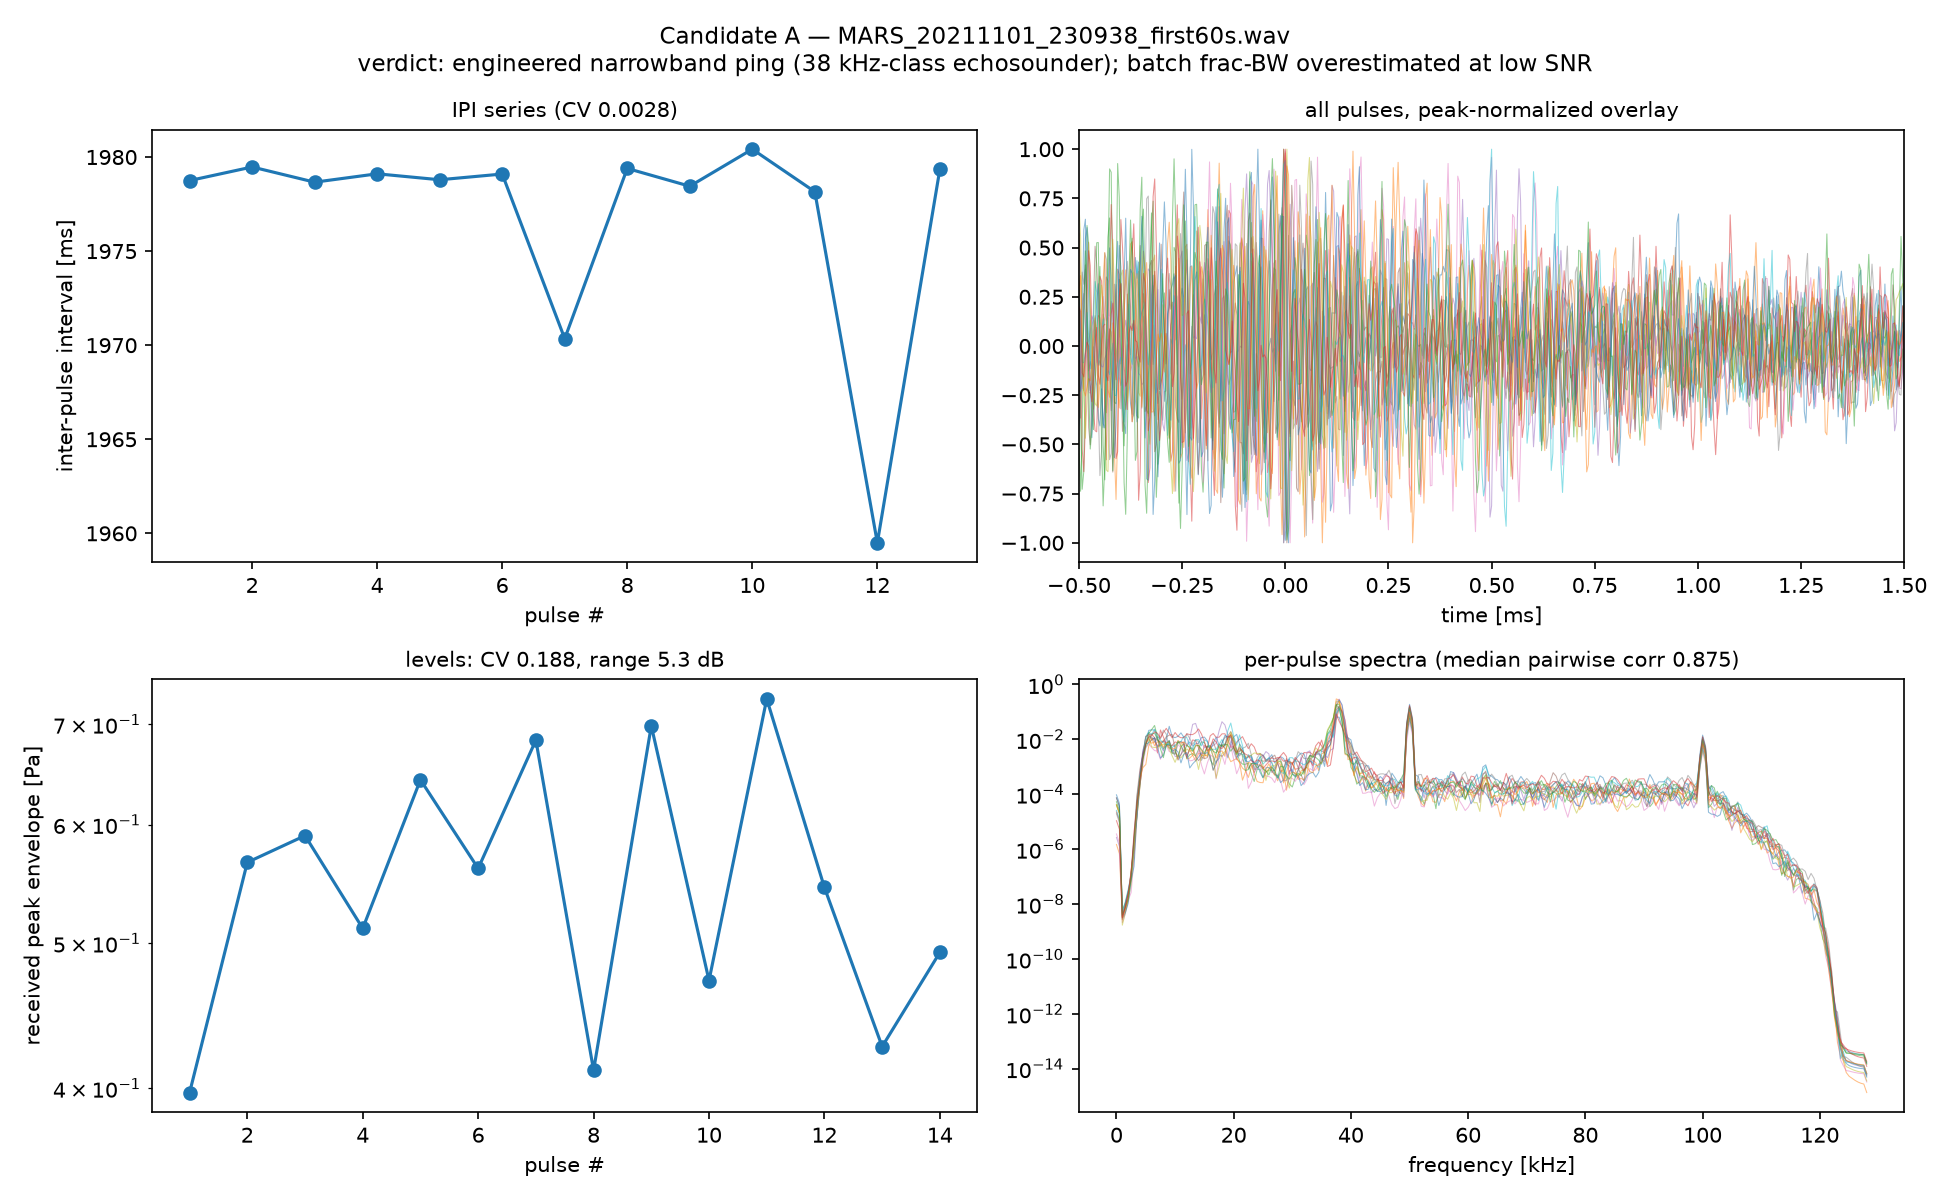
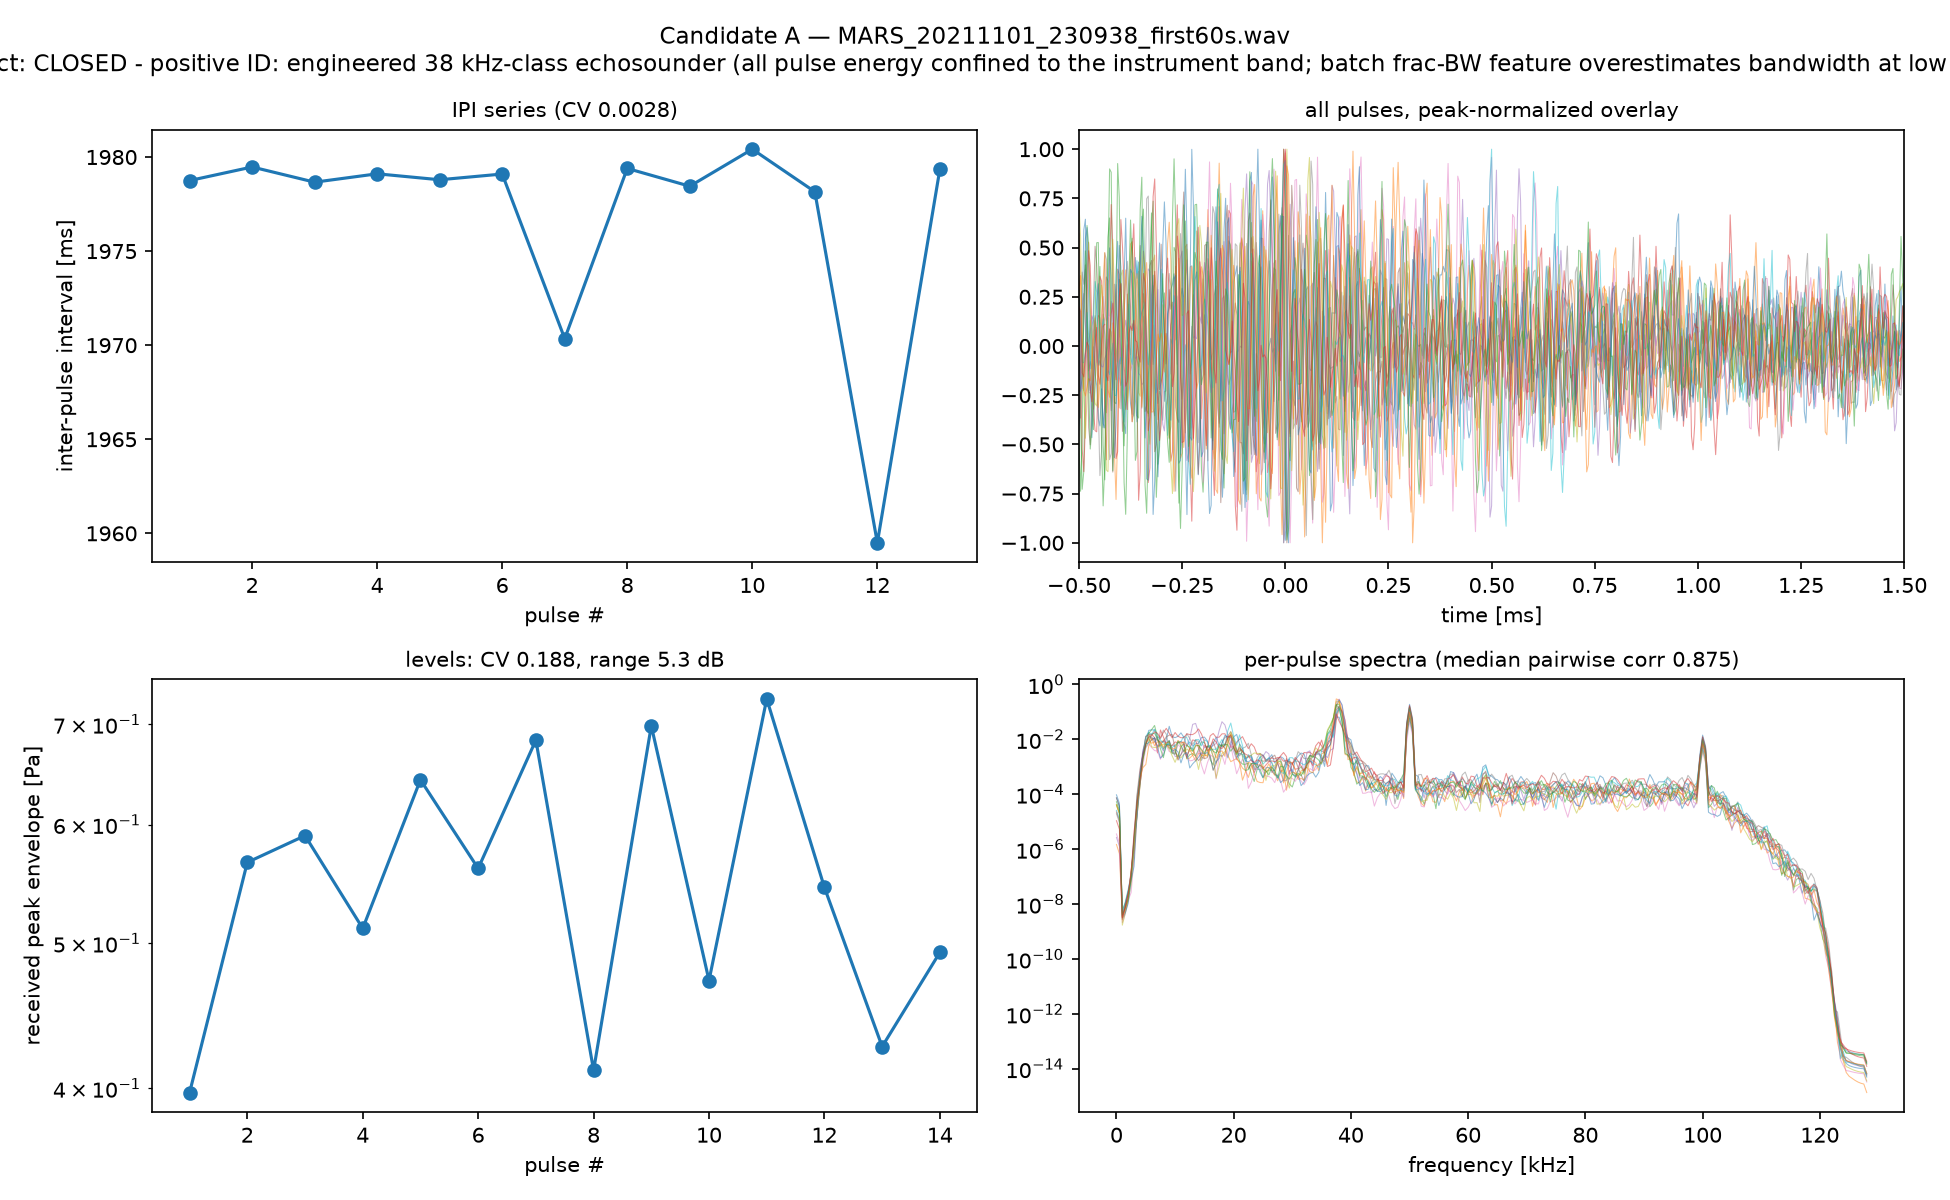
Replace binary dismissals with graded candidate adjudication
Screening for unknown sources must not close candidates on the mere
availability of a mundane explanation. Changes:

- verify_candidates.py: verdicts are now graded. CLOSED requires
  positive identification of a known source class; otherwise candidates
  stay OPEN at grade 1 (machine-like, highest interest), grade 2
  (unresolved) or grade 3 (biologic-favored, watchlisted)
- new motion-consistency metric (pulse-to-pulse level-reversal
  fraction): distinguishes a scanning biosonar beam (~0.67, erratic)
  from a smoothly transiting transmitter (<0.3); intermediate values
  are treated as evidence of nothing
- candidate B (2021-12-28) re-adjudicated: OPEN grade 2, unresolved --
  level variability only rules out FIXED transmitters, and its reversal
  fraction (0.50) is ambiguous between regular biosonar and a
  maneuvering/variable-power source; single-sensor data cannot resolve
- candidate A remains CLOSED on positive ID (all pulse energy confined
  to the 38 kHz instrument band)
- injection_test.py added: measures the screen's false-negative rate by
  injecting physically modeled discharge trains (shock + bubble echoes,
  metronomic) into real slices at controlled multiples of the detection
  threshold (results land in a follow-up commit)

Claude-Session: https://claude.ai/code/session_01WFhEo1c6TtW4FNHecjtDJF

Changed region(s): [[0.0, 0.0308, 1.0, 0.0617]]

diff --git a/src/injection_test.py b/src/injection_test.py
@@ -1,0 +1,199 @@
+#!/usr/bin/env python3
+"""Measure the false-negative rate of the discharge-template screen by
+signal injection.
+
+"We found no discharge trains" is only meaningful with a measured
+detection threshold: this script synthesizes physically modeled
+discharge pulse trains (fast broadband shock + bubble-oscillation echoes
+at 0.8/1.6 ms, machine-regular timing with 0.3% jitter), injects them
+into REAL 60 s MARS slices spanning quiet ambient, biologic click
+storms, and echosounder activity, then runs the exact batch-screen
+pipeline and asks: was a DISCHARGE-LIKE train recovered at the injected
+repetition rate?
+
+Injection amplitudes are expressed as multiples (alpha) of each slice's
+own detection threshold (median + 10*MAD of the band envelope), so
+results transfer across noise conditions. A zero-amplitude control run
+per slice measures the false-positive side.
+
+Outputs results/injection_test.json and figures/fig_injection.png
+(recovery matrix + received-level threshold -> detection-range curve).
+
+Usage:
+    python3 src/injection_test.py [--slices data/slices] [--workers 3]
+"""
+
+import argparse
+import glob
+import json
+import os
+from concurrent.futures import ProcessPoolExecutor
+
+import numpy as np
+from scipy import signal
+import matplotlib
+matplotlib.use("Agg")
+import matplotlib.pyplot as plt
+
+from plasma_transient_search import (detect, event_features, classify_train,
+                                     load_pressure_pa, TRAIN_GAP_S,
+                                     TRAIN_MIN_N, DET_BAND)
+
+ALPHAS = [0.0, 0.7, 1.0, 1.5, 2.0, 3.0, 5.0]
+RATES_HZ = [0.5, 2.0, 8.0]
+IPI_JITTER = 0.003
+FEATURE_CAP = 1000
+RNG_SEED = 20260821
+
+
+def make_pulse(fs, rng):
+    """Discharge pulse model: 0.1 ms shock burst + bubble echoes."""
+    n = int(0.004 * fs)
+    t = np.arange(n) / fs
+    burst = rng.standard_normal(n) * np.exp(-((t - 0.0002) / 8e-5) ** 2)
+    for lag, amp in ((0.0008, 0.4), (0.0016, 0.15)):
+        k = int(lag * fs)
+        burst[k:] += amp * rng.standard_normal(n - k) * \
+            np.exp(-((t[:n - k] - 0.0002) / 8e-5) ** 2)
+    sos = signal.butter(4, (DET_BAND[0], 110000), btype="bandpass",
+                        fs=fs, output="sos")
+    p = signal.sosfiltfilt(sos, burst)
+    return p / np.abs(signal.hilbert(p)).max()
+
+
+def screen(p, fs):
+    """The batch-screen pipeline: detect -> features -> trains."""
+    x, env, peaks, _ = detect(p, fs)
+    feat_idx = set(np.linspace(0, len(peaks) - 1,
+                               min(len(peaks), FEATURE_CAP)).astype(int)
+                   ) if len(peaks) else set()
+    evs = [event_features(x, env, fs, i) if j in feat_idx
+           else {"t_s": round(i / fs, 4)}
+           for j, i in enumerate(peaks)]
+    trains, cur = [], []
+    for e in evs:
+        if cur and e["t_s"] - cur[-1]["t_s"] > TRAIN_GAP_S:
+            trains.append(cur)
+            cur = []
+        cur.append(e)
+    if cur:
+        trains.append(cur)
+    return [classify_train(t) for t in trains if len(t) >= TRAIN_MIN_N]
+
+
+def run_slice(path):
+    rng = np.random.default_rng(RNG_SEED)
+    name = os.path.basename(path).split("_first")[0]
+    p, fs = load_pressure_pa(path)
+    sos = signal.butter(6, DET_BAND, btype="bandpass", fs=fs, output="sos")
+    env0 = np.abs(signal.hilbert(signal.sosfiltfilt(sos, p)))
+    thr = float(np.median(env0) + 10 * np.median(
+        np.abs(env0 - np.median(env0))))
+    pulse = make_pulse(fs, rng)
+    rows = []
+    for rate in RATES_HZ:
+        for alpha in ALPHAS:
+            if alpha == 0.0 and rate != RATES_HZ[0]:
+                continue                       # one control per slice
+            pi = p.copy()
+            if alpha > 0:
+                t = 0.5
+                while t < len(p) / fs - 0.1:
+                    i = int(t * fs)
+                    amp = alpha * thr * (1 + 0.02 * rng.standard_normal())
+                    seg = pulse[:min(len(pulse), len(pi) - i)]
+                    pi[i:i + len(seg)] += amp * seg
+                    t += (1 + IPI_JITTER * rng.standard_normal()) / rate
+            trains = screen(pi, fs)
+            hit = any(t["class"].startswith("DISCHARGE")
+                      and abs(t["rate_hz"] - rate) / rate < 0.15
+                      for t in trains) if alpha > 0 else None
+            fp = sum(1 for t in trains if t["class"].startswith("DISCHARGE")
+                     ) if alpha == 0.0 else None
+            rows.append({"slice": name, "rate_hz": rate, "alpha": alpha,
+                         "thr_pa": round(thr, 4), "recovered": hit,
+                         "false_pos": fp})
+            print(f"  {name} rate={rate} alpha={alpha}: "
+                  f"{'FP=' + str(fp) if alpha == 0 else 'hit' if hit else 'miss'}",
+                  flush=True)
+    return rows
+
+
+def detection_range_km(rl_pa, sl_db):
+    """Range at which received level falls to rl_pa, for source level
+    sl_db (dB re 1 uPa @ 1 m), spherical spreading + 10 dB/km absorption
+    (~40 kHz)."""
+    rl_db = 20 * np.log10(rl_pa * 1e6)
+    r = np.logspace(0, 5.7, 4000)                    # 1 m .. 500 km
+    tl = 20 * np.log10(r) + 10.0 * (r / 1000.0)
+    ok = np.nonzero(sl_db - tl >= rl_db)[0]
+    return float(r[ok[-1]] / 1000.0) if len(ok) else 0.0
+
+
+def main():
+    ap = argparse.ArgumentParser()
+    ap.add_argument("--slices", default=os.environ.get(
+        "PACIFIC_SOUND_DIR", "data/slices"))
+    ap.add_argument("--workers", type=int, default=3)
+    args = ap.parse_args()
+    paths = sorted(glob.glob(os.path.join(args.slices, "*.wav")))
+    rows = []
+    with ProcessPoolExecutor(max_workers=args.workers) as ex:
+        for rr in ex.map(run_slice, paths):
+            rows += rr
+    with open("results/injection_test.json", "w") as fh:
+        json.dump(rows, fh, indent=1)
+
+    inj = [r for r in rows if r["alpha"] > 0]
+    ctl = [r for r in rows if r["alpha"] == 0.0]
+    n_fp = sum(r["false_pos"] for r in ctl)
+    # recovery matrix alpha x rate
+    mat = np.zeros((len(ALPHAS) - 1, len(RATES_HZ)))
+    for ia, a in enumerate(ALPHAS[1:]):
+        for ir, rt in enumerate(RATES_HZ):
+            sel = [r for r in inj if r["alpha"] == a and r["rate_hz"] == rt]
+            mat[ia, ir] = np.mean([r["recovered"] for r in sel])
+    thr_med = float(np.median([r["thr_pa"] for r in ctl]))
+    # threshold: lowest alpha with >=90% overall recovery
+    overall = mat.mean(axis=1)
+    a90 = next((a for a, v in zip(ALPHAS[1:], overall) if v >= 0.9), None)
+    print(f"\ncontrols: {n_fp} false positives in {len(ctl)} clean runs")
+    print(f"median detection threshold: {thr_med:.3f} Pa; "
+          f"90% recovery at alpha={a90}")
+
+    fig, (ax1, ax2) = plt.subplots(1, 2, figsize=(13, 5))
+    im = ax1.imshow(mat, cmap="RdYlGn", vmin=0, vmax=1, aspect="auto")
+    ax1.set_xticks(range(len(RATES_HZ)))
+    ax1.set_xticklabels([f"{r} Hz" for r in RATES_HZ])
+    ax1.set_yticks(range(len(ALPHAS) - 1))
+    ax1.set_yticklabels([f"{a}x" for a in ALPHAS[1:]])
+    for ia in range(mat.shape[0]):
+        for ir in range(mat.shape[1]):
+            ax1.text(ir, ia, f"{mat[ia, ir]*100:.0f}%", ha="center",
+                     va="center", fontsize=9)
+    ax1.set_xlabel("injected repetition rate")
+    ax1.set_ylabel("injected amplitude [x detection threshold]")
+    ax1.set_title(f"Recovery rate over {len(paths)} real slices "
+                  f"(controls: {n_fp} FP)", fontsize=10)
+    fig.colorbar(im, ax=ax1, shrink=0.85)
+    sls = np.arange(160, 231, 1)
+    for a, ls in ((a90 or 2.0, "-"), (5.0, "--")):
+        rng_km = [detection_range_km(a * thr_med, sl) for sl in sls]
+        ax2.plot(sls, rng_km, ls, label=f"received level {a}x threshold "
+                 f"({a*thr_med:.2f} Pa)")
+    ax2.set_yscale("log")
+    ax2.set_xlabel("source level [dB re 1 µPa @ 1 m]")
+    ax2.set_ylabel("detection range [km]")
+    ax2.set_title("Implied detection range (spherical spreading + "
+                  "10 dB/km @ 40 kHz)", fontsize=10)
+    ax2.grid(alpha=0.3, which="both")
+    ax2.legend(fontsize=8)
+    fig.suptitle("Injection test: measured sensitivity of the "
+                 "discharge-template screen", fontsize=12)
+    fig.tight_layout()
+    fig.savefig("figures/fig_injection.png", dpi=150)
+    print("wrote figures/fig_injection.png")
+
+
+if __name__ == "__main__":
+    main()

diff --git a/src/verify_candidates.py b/src/verify_candidates.py
@@ -119,22 +119,42 @@ def analyze(cand, slices_dir, figdir, seconds=60):
         "ping_band_snr": round(ping_snr, 1),
         "high_band_snr": round(high_snr, 1),
     }
+    # motion consistency: fraction of pulse-to-pulse level-trend
+    # reversals. A scanning biosonar beam is erratic (~0.67, random);
+    # a smoothly transiting transmitter is monotonic-ish (<0.3).
+    # Intermediate values are evidence of NOTHING and must not close a
+    # candidate.
+    steps = np.diff(20 * np.log10(amps))
+    metrics["level_reversal_frac"] = round(float(np.mean(
+        np.sign(steps[1:]) != np.sign(steps[:-1]))), 2)
     # verdict logic
+    # Graded verdicts. A candidate is CLOSED only on POSITIVE
+    # identification of a known source class; anything else stays OPEN
+    # at a grade. Absence of machine-like stability is NOT a dismissal:
+    # a moving or variable-power source would also vary.
     if ping_snr > 4 * high_snr and ping_snr > 10:
-        # pulse energy confined to the 38 kHz sonar band, nothing above:
-        # a narrowband echosounder whose low SNR fooled the batch
-        # screener's bandwidth feature
-        metrics["verdict"] = ("engineered narrowband ping (38 kHz-class " 
-                              "echosounder); batch frac-BW overestimated "
-                              "at low SNR")
+        metrics["verdict"] = (
+            "CLOSED - positive ID: engineered 38 kHz-class echosounder "
+            "(all pulse energy confined to the instrument band; batch "
+            "frac-BW feature overestimates bandwidth at low SNR)")
     elif (metrics["amp_cv"] < 0.15 and metrics["spec_corr_median"] > 0.9
             and metrics["echo_lag_cv"] < 0.15):
-        metrics["verdict"] = ("machine-like broadband transmitter "
-                              "(discharge or engineered; needs follow-up)")
+        metrics["verdict"] = (
+            "OPEN grade 1 - machine-like broadband transmitter: stable "
+            "level, cloned spectra, fixed echo; highest interest, "
+            "needs array follow-up")
+    elif metrics["level_reversal_frac"] >= 0.6 \
+            and metrics["echo_lag_cv"] > 0.5:
+        metrics["verdict"] = (
+            "OPEN grade 3 - biologic-favored: erratic level reversals "
+            "(scanning beam) and no repeatable cavity echo; kept on "
+            "watchlist, single sensor cannot positively identify")
     else:
-        metrics["verdict"] = ("biosonar: click-to-click level/spectrum "
-                              "variability of a scanning animal, not a "
-                              "fixed transmitter")
+        metrics["verdict"] = (
+            "OPEN grade 2 - unresolved: pulse-level evidence mixed "
+            "(consistent with regular biosonar AND with a maneuvering "
+            "or variable-power transmitter); localization/tracking "
+            "data needed to resolve")
 
     fig, axes = plt.subplots(2, 2, figsize=(13, 8))
     ax = axes[0, 0]
